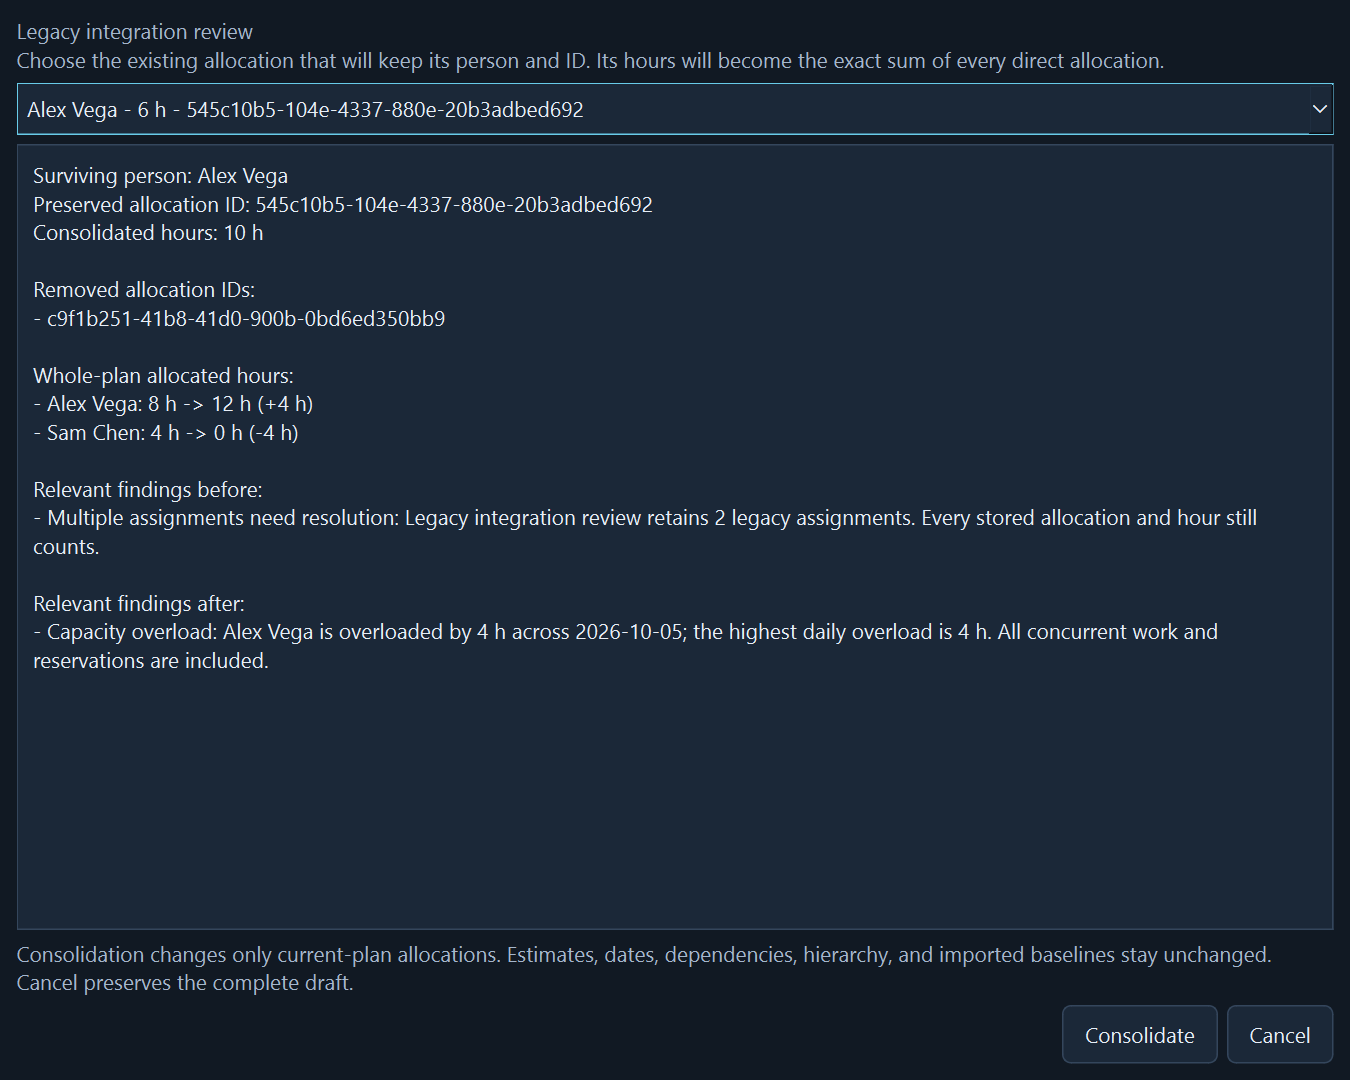
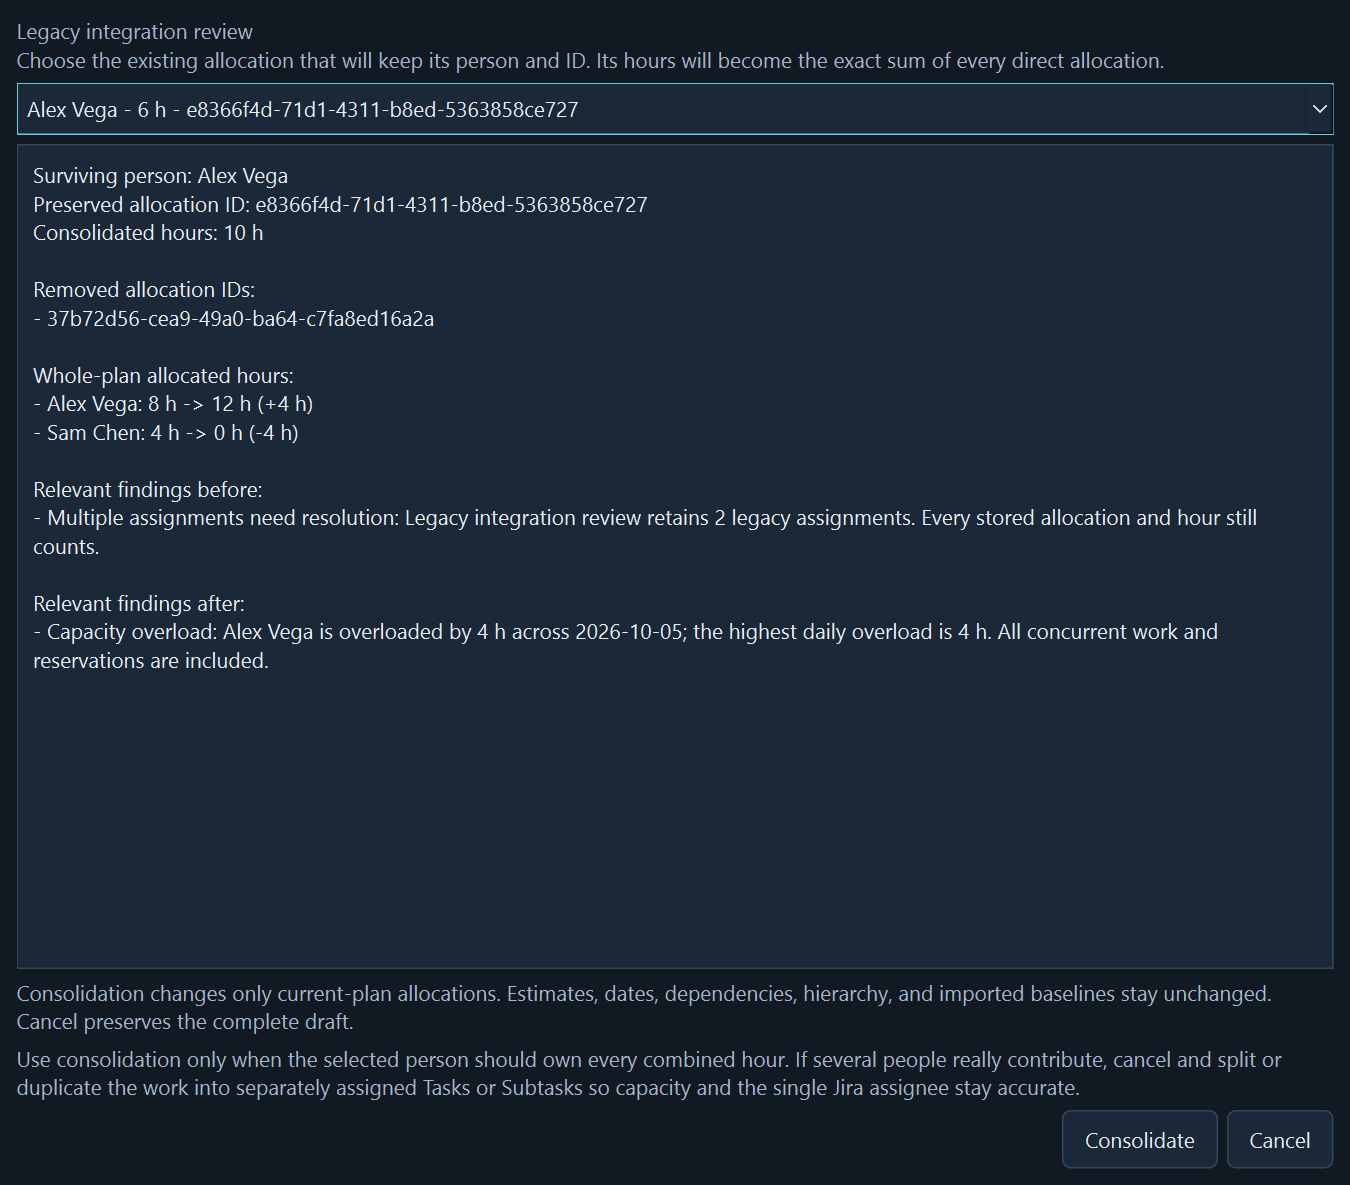
docs(capacity): clarify Jira-aligned assignment model

diff --git a/src/planacity/ui/allocations.py b/src/planacity/ui/allocations.py
@@ -131,6 +131,14 @@ class AssignmentConsolidationDialog(QDialog):
                 "preserves the complete draft."
             )
         )
+        layout.addWidget(
+            label(
+                "Use consolidation only when the selected person should own every combined "
+                "hour. If several people really contribute, cancel and split or duplicate "
+                "the work into separately assigned Tasks or Subtasks so capacity and the "
+                "single Jira assignee stay accurate."
+            )
+        )
         self.buttons = QDialogButtonBox(
             QDialogButtonBox.StandardButton.Ok | QDialogButtonBox.StandardButton.Cancel
         )

diff --git a/tests/test_allocation_editor.py b/tests/test_allocation_editor.py
@@ -187,6 +187,10 @@ def test_consolidation_preview_requires_selection_and_cancel_preserves_plan(app,
     assert "Alex: 8 h -> 12 h (+4 h)" in text
     assert "Sam: 4 h -> 0 h (-4 h)" in text
     assert "Capacity overload" in text
+    assert any(
+        "single Jira assignee stay accurate" in child.text()
+        for child in dialog.findChildren(QLabel)
+    )
 
     QTest.keyClick(dialog, Qt.Key.Key_Escape)
     assert dialog.result() == QDialog.DialogCode.Rejected

diff --git a/docs/single-person-visual-planning.md b/docs/single-person-visual-planning.md
@@ -19,6 +19,13 @@ the distinct people assigned to its descendant leaves as a read-only team.
 That summary is not permission to assign several people to one executable item.
 An Epic without children follows the leaf rule until it is decomposed.
 
+Jira-facing ownership is distinct from capacity hours. The S03 target is one
+canonical assignee per work item. On an Epic, that person is the feature owner
+and does not create additional capacity demand; Epic effort remains the exact
+sum of its executable descendants. On a Task or Subtask, the assignee and the
+single Allocation person must agree whenever allocated hours exist. Imported
+assignee text remains source provenance until that workflow is implemented.
+
 For collaboration, split executable work: "Calibrate beam" can contain "Adjust
 optics" assigned to Nefario for 16 h and "Verify beam" assigned to Bob for 8 h.
 The parent shows 24 h and two contributing people without consuming another
@@ -64,6 +71,11 @@ and show before/after person loads. Do not change estimates, dates, work IDs,
 dependencies or historical import records. Excess/partial effort remains visible.
 For example Alex 60 h + Sam 40 h becomes Alex 100 h only after confirmation,
 with Sam's 40 h removed and Alex's overload recalculated.
+
+Use that repair only when Alex should truly own all 100 h. If Alex and Sam both
+contribute, consolidation would misattribute capacity and should be cancelled.
+Create separately assigned Tasks or Subtasks instead; their parent Epic rolls up
+the joint effort without becoming a second capacity allocation.
 
 Splitting work into leaves is the recommended alternative when both people
 really contribute. Initially use explicit normal editing; do not invent an
@@ -124,7 +136,7 @@ Named, hatched absence overlays and reservation lanes remain visually distinct.
 | People WorkGroups | Still derived from positive allocations; one person can work across many groups |
 | Overview topics | Same primary-topic resolver as Gantt, no multi-group double counting |
 | Inspector | One person selector and allocated hours on leaves; team summary on parents |
-| Jira CSV and baselines | Assignee mapping is still provenance, not an implicit allocation; no baseline rewrite |
+| Jira CSV and baselines | Preserve source provenance; S03 adds one canonical assignee, with Epic assignee as feature owner and leaf assignee aligned with its Allocation |
 | Descriptions, labels, priority | Independent metadata; priority does not determine criticality or bar color |
 | Dependency graph | One assignee on a normal leaf card, aggregate names on a container, explicit legacy warnings |
 | Critical path | Dependency/duration calculation unchanged; resource feasibility remains separate |

diff --git a/docs/allocation-model.md b/docs/allocation-model.md
@@ -66,6 +66,13 @@ the outer **Save** applies it once. Cancel at either level preserves the origina
 plan. Estimates, dates, dependencies, hierarchy, WorkGroups, priorities, and Jira
 baselines are not changed.
 
+Consolidation is a repair for cases where one person should own all of the combined
+hours. It is not the recommended representation of real collaboration: moving
+Sam's hours onto Alex would attribute all capacity demand to Alex. If several
+people contribute, cancel and split or duplicate the work into separately assigned
+Tasks or Subtasks. That keeps each executable item's capacity and single Jira
+assignee accurate while the parent Epic shows their combined effort.
+
 ![Assignment consolidation preview in light appearance](images/assignment-consolidation-light.png)
 ![Assignment consolidation preview in dark appearance](images/assignment-consolidation-dark.png)
 
@@ -123,6 +130,6 @@ WorkItem's complete dates using positive planning capacity after reservations,
 then sums concurrent work and retains negative remaining capacity. Missing dates,
 calendars, or positive-capacity days keep the hours as explicit unplaced demand.
 
-The [roadmap](roadmap.md) continues with S03 for the final one-person editor and
-aggregate container teams. See the [planning decisions](planning-decisions.md)
-for the dated distribution contract.
+The [roadmap](roadmap.md) continues with S03 for the final one-person editor,
+Jira-aligned ownership, and aggregate container teams. See the
+[planning decisions](planning-decisions.md) for the dated distribution contract.

diff --git a/docs/implementation-queue.md b/docs/implementation-queue.md
@@ -188,6 +188,17 @@ multi-person items show every assignment and the resolution action. Apply/Cancel
 reassignment previews and keyboard access remain consistent across all editors.
 Keep estimate/allocation mismatch visible; never silently synchronize hours.
 
+Add one canonical Jira-facing assignee per WorkItem. An Epic assignee is its
+feature owner and creates no capacity demand; its displayed effort/team still
+rolls up executable descendants. A Task or Subtask with allocated hours uses the
+same person for assignee and its sole Allocation. Import preserves the mapped
+assignee without inventing allocated hours. Export preserves unchanged external
+identity and explicitly previews the local assignee used for edited/new work.
+When several people contribute, use separately assigned Tasks/Subtasks rather
+than consolidating their hours onto one person. Define migration and external
+person mapping explicitly before implementation; never export a display name as
+a Jira account identifier by assumption.
+
 Verify People groups, Overview, workload distribution, findings, hierarchy totals,
 Jira baselines, backup restore, delete-person previews, and agent-guide rules.
 Update user docs/screenshots and D01 assumptions. Audit every assignment entry

diff --git a/docs/agent-assisted-planning.md b/docs/agent-assisted-planning.md
@@ -100,7 +100,9 @@ For an existing plan, the instructions require:
    separately assigned subtasks. Preserve unresolved legacy assignments until
    an explicit resolution is requested, and report them in proposal notes. S02
    can consolidate only onto a user-selected existing Allocation after preview;
-   never guess the survivor. S03 will add the final editor. See the
+   never guess the survivor or use consolidation for genuine collaboration.
+   Split that work into separately assigned leaves. S03 will add the final editor
+   and Jira-aligned ownership, including feature ownership on Epics. See the
    [assignment revision](single-person-visual-planning.md). Keep Allocation
    separate from work, hierarchy separate from dependencies, and
    stored inputs separate from computed totals. Use supported field names only.

diff --git a/CHANGELOG.md b/CHANGELOG.md
@@ -10,7 +10,9 @@ Meaningful user-facing changes are recorded here. Planacity uses Semantic Versio
   Allocation to keep, preview the exact combined hours, removed IDs, whole-plan
   person loads, and resulting findings, then confirm atomically. Cancel keeps the
   complete draft unchanged; estimates, dates, dependencies, hierarchy, imports,
-  and schema 10 remain untouched.
+  and schema 10 remain untouched. The preview warns that genuine collaboration
+  should be split into separately assigned work so capacity and Jira ownership
+  are not misattributed.
 - Single-person assignment transitions for executable leaf work. New leaves
   accept zero or one explicit Allocation, while legacy multi-person leaves keep
   every ID and exact hour, remain saveable and editable, and receive an

diff --git a/docs/planning-decisions.md b/docs/planning-decisions.md
@@ -18,7 +18,9 @@ supersedes multi-person assignment as the target editing model. S01 limits new
 executable leaves to zero or one Allocation while preserving every legacy entry,
 hour, and calculation. S02 explicitly consolidates a legacy conflict onto one
 selected existing Allocation after a before/after preview. S03 will add the final
-one-person editor and aggregate container teams. Existing calculation and
+one-person editor, Jira-aligned assignees, and aggregate container teams. An Epic
+assignee is a feature owner without additional capacity demand; a leaf assignee
+must match its sole Allocation when hours exist. Existing calculation and
 preservation rules below still apply to every stored allocation. V07 adds
 group-colored bars and type-specific shapes independently.
 

diff --git a/docs/jira-export.md b/docs/jira-export.md
@@ -15,6 +15,11 @@ Export includes:
 - Original external assignees and statuses for imported work.
 - Priority output chosen by a visible preservation rule.
 
+The current exporter does not derive Jira Assignee from capacity Allocations.
+It preserves the original external assignee text for imported work and leaves it
+blank for new work. Until S03 adds an explicit Jira-aligned ownership workflow,
+review that column before import and do not assume consolidation changes it.
+
 When imported work keeps its baseline canonical priority, export preserves its
 nonblank source priority text exactly. This includes unresolved custom values
 whose Planacity priority remains Unset. When priority changes, export uses the
